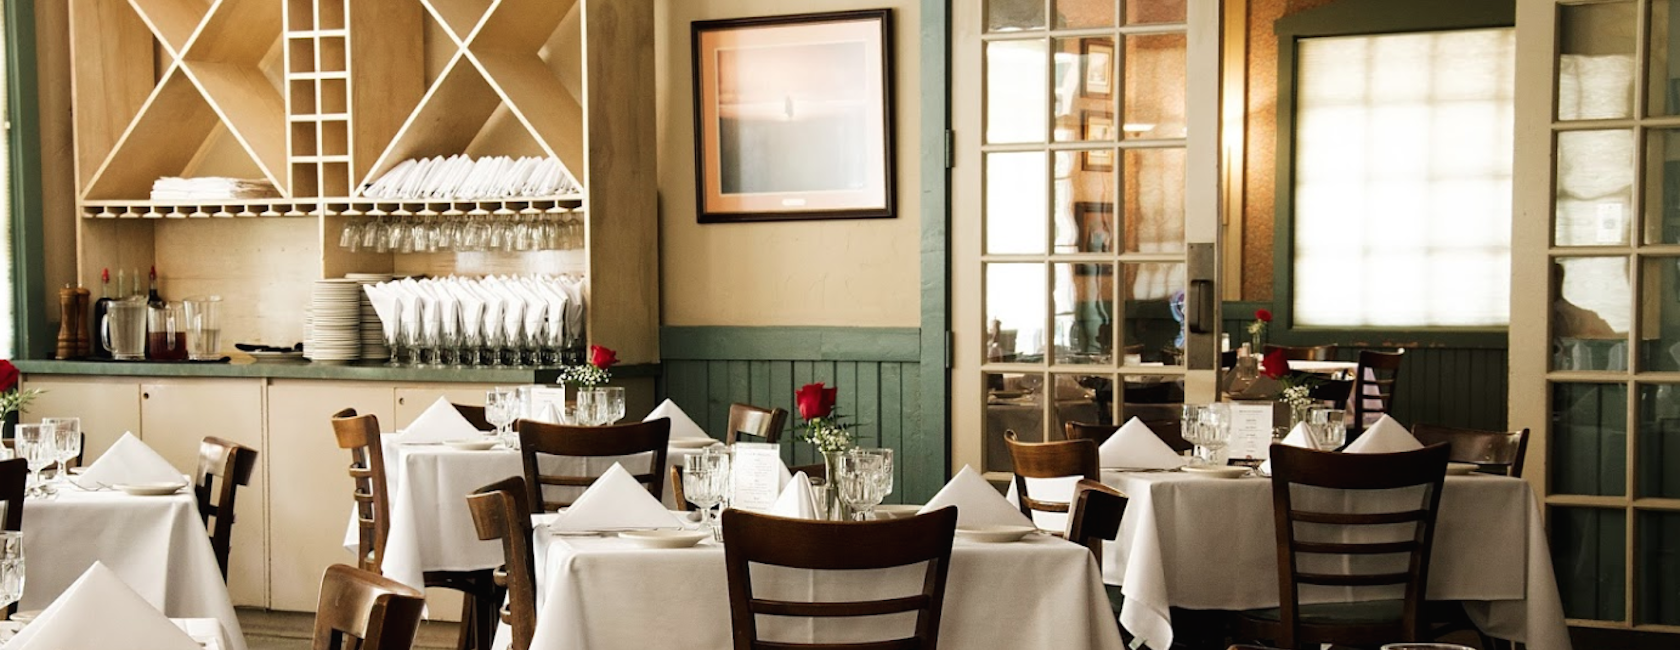
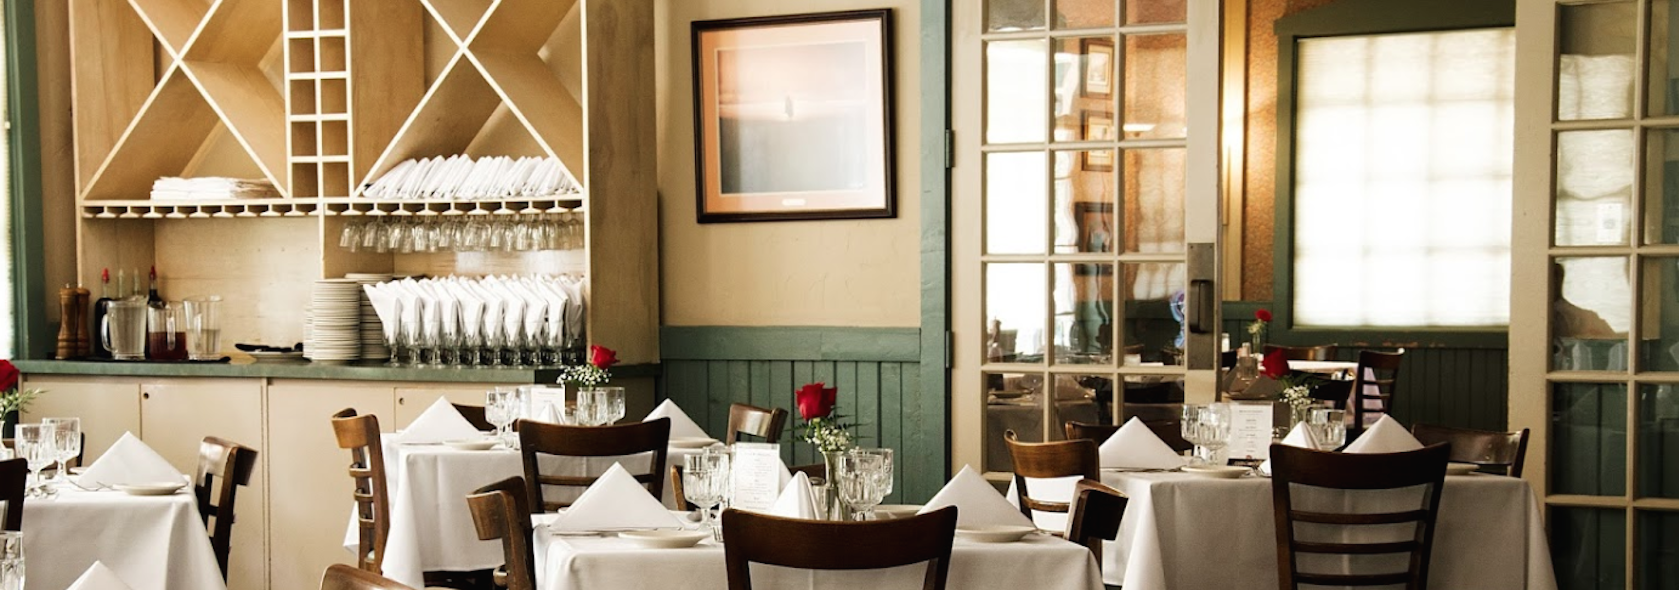
changes size of homepage picture. fixes alignment... sort of

diff --git a/style.css b/style.css
@@ -38,12 +38,23 @@
     float: left;
     margin-left: 50px;
   }
+
+  .left-nav li:nth-child(1) {
+    float: left;
+    margin-left: 0;
+  }
+
 .right-nav {
   float: right;
 }
   .right-nav li {
     float: right;
     margin-left: 50px;
+ }
+
+   .right-nav li:nth-child(3) {
+    float: right;
+    margin-left: 0;
   }
 
 .title {
@@ -52,9 +63,9 @@
   font-size: 60px;
   text-align: center;
   margin: 0 auto;
-  width: 300px;
+  width: 390px;
   position: relative;
-  right: 43px;
+  /*right: 80px;*/
   top: 50px;
 
 }
@@ -71,7 +82,7 @@
   position: fixed;
   top: 166px;
   width: 100%;
-  height: 650px;
+  height: 590px;
   /*background-image: url("bugatti-homepage-copy.png");*/
   z-index: 1;
 
@@ -80,18 +91,18 @@
 .content {
   z-index: 2;
   position: relative;
-  top: 800px;
+  top: 740px;
   height: 900px;
   background-color: white;
   width: 100%;
 }
 
 .slogan-panel {
-  margin-right: 100px;
+  /*margin-right: 150px;*/
 }
 .slogan {
   /*position: fixed;*/
-  padding-top: 80px;
+  padding-top: 40px;
   /*margin-top: 80px;*/
   text-align: center;
   letter-spacing: 3px;
@@ -99,11 +110,11 @@
 }
 
 .contact {
-  margin-right: 100px;
+  /*margin-right: 150px;*/
 }
 
 .separator {
-    margin-top: -150px;
+    margin-top: -110px;
     font-weight: 100;
     font-size: 200px;
 }
@@ -113,6 +124,37 @@
   text-align: center;
   margin-bottom: 20px;
 }
+
+
+.review {
+  margin-left: 5px;
+  float: left;
+  width: 430px;
+}
+
+  .review p {
+    text-align: justify;
+    text-align: middle;
+    line-height: 150%;
+    font-size: 20px;
+  }
+
+    .reviews div:nth-child(1) {
+    position: relative;
+    padding-left: 0;
+  }
+
+  .reviews div:nth-child(2) {
+    float: right;
+    /*margin-right: 100px;*/
+  }
+
+  .review .author {
+    position: relative;
+    left: 180px;
+  }
+
+
 
 
 /* HELPER CLASSES */

diff --git a/index.html b/index.html
@@ -14,12 +14,12 @@
         <div class="navbar cf">
           <ul class="left-nav">
             <li>about us</li>
-            <li>contact</li>
+            <li>occasions &amp; catering</li>
             <li>menu</li>
           </ul>
           <ul class="right-nav">
-            <li>banquets &amp; catering</li>
             <li>our friends</li>
+            <li>location &amp; hours</li>
             <li>reviews</li>
           </ul>
         </div>
@@ -42,10 +42,22 @@
           <p>(214) 350-2470</p>
           <h1 class="slogan separator">-</h1>
       </div>
+      <div class="reviews">
+        <div class="review">
+            <p>
+              "Food is divine and service is 5-star.  It doesn't get any better than this.  The owner, Zee, knows almost every customer by first-name basis.  They go above and beyond to deliver exceptional food and service."
+            </p>
+            <p class="author">- Ashley C. (Yelp, Jan 2014)</p>
+        </div>
+        <div class="review">
+            <p>
+              "Great Service, Really Good Food! I had the stuffed Mushrooms to start, and Veal Parmigiana which was superb! For dessert I had the Creme Brulee which was FABULOUS! I cannot wait to go back!"
+            </p>
+            <p class="author">- Daphne T. (Yelp, Apr 2014)</p>
+        </div>
+      </div>
     </div>
-
-
-    </div>
+  </div>
   <!-- END BODY -->
   <script src="jquery.js"></script>
   <script src="script.js"></script>
